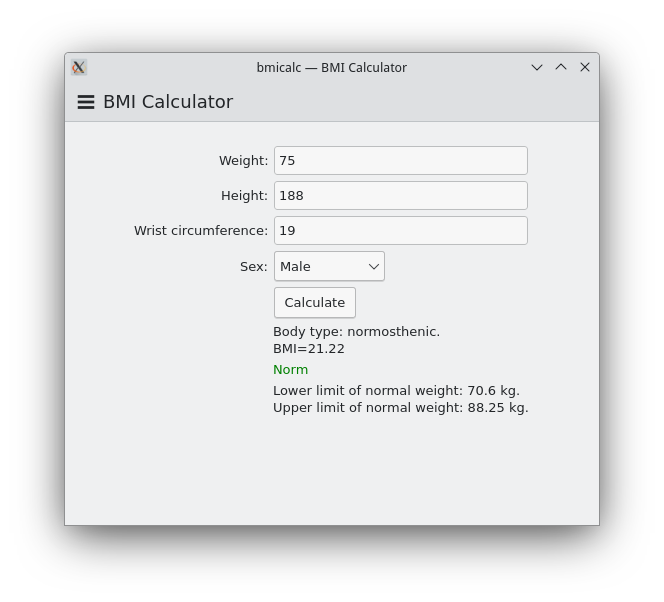
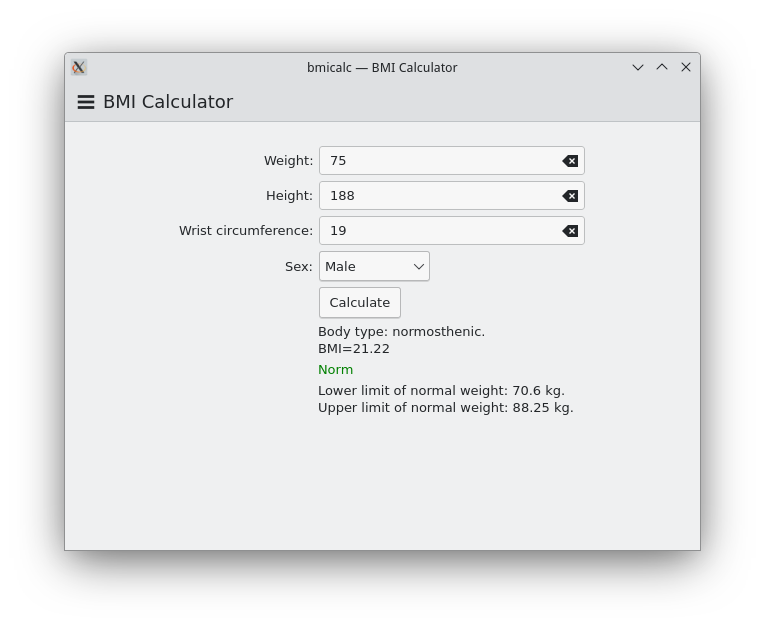
Add files via upload

Changed region(s): [[0.0602, 0.0598, 0.9337, 0.897], [0.2108, 0.2392, 0.7831, 0.6877], [0.7229, 0.2392, 0.7831, 0.2691]]

diff --git a/src/contents/ui/main.qml b/src/contents/ui/main.qml
@@ -78,23 +78,44 @@ Kirigami.ApplicationWindow {
 
             width: page.width
 
-            Controls.TextField {
+            Kirigami.ActionTextField {
                 id: weight
                 placeholderText: i18n("Weight in kilograms")
-                inputMethodHints: Qt.ImhDigitsOnly
+                inputMethodHints: Qt.ImhFormattedNumbersOnly
                 Kirigami.FormData.label: i18n("Weight:")
+                rightActions: Kirigami.Action {
+                icon.name: "edit-clear"
+                visible: weight.text !== ""
+                onTriggered: {
+                    weight.clear();
+               }
+              }
             }
-            Controls.TextField {
+            Kirigami.ActionTextField {
                 id: height
                 placeholderText: i18n("Height in centimeters")
-                inputMethodHints: Qt.ImhDigitsOnly
+                inputMethodHints: Qt.ImhFormattedNumbersOnly
                 Kirigami.FormData.label: i18n("Height:")
+                rightActions: Kirigami.Action {
+                icon.name: "edit-clear"
+                visible: height.text !== ""
+                onTriggered: {
+                    height.clear();
+               }
+              }
             }
-            Controls.TextField {
+            Kirigami.ActionTextField {
                 id: circle
                 placeholderText: i18n("Wrist circumference in centimeters")
-                inputMethodHints: Qt.ImhDigitsOnly
+                inputMethodHints: Qt.ImhFormattedNumbersOnly
                 Kirigami.FormData.label: i18n("Wrist circumference:")
+                rightActions: Kirigami.Action {
+                icon.name: "edit-clear"
+                visible: circle.text !== ""
+                onTriggered: {
+                    circle.clear();
+               }
+              }
             }
 
             Controls.ComboBox {
@@ -128,7 +149,7 @@ Kirigami.ApplicationWindow {
     var w=Number(weight.text);
     var c=Number(circle.text);
     if (isNullInField(height.text)||isNullInField(weight.text)||isNullInField(circle.text)){
-        alert.visible = true
+        alert.open()
         return;
     }
     var gen,index,s;
